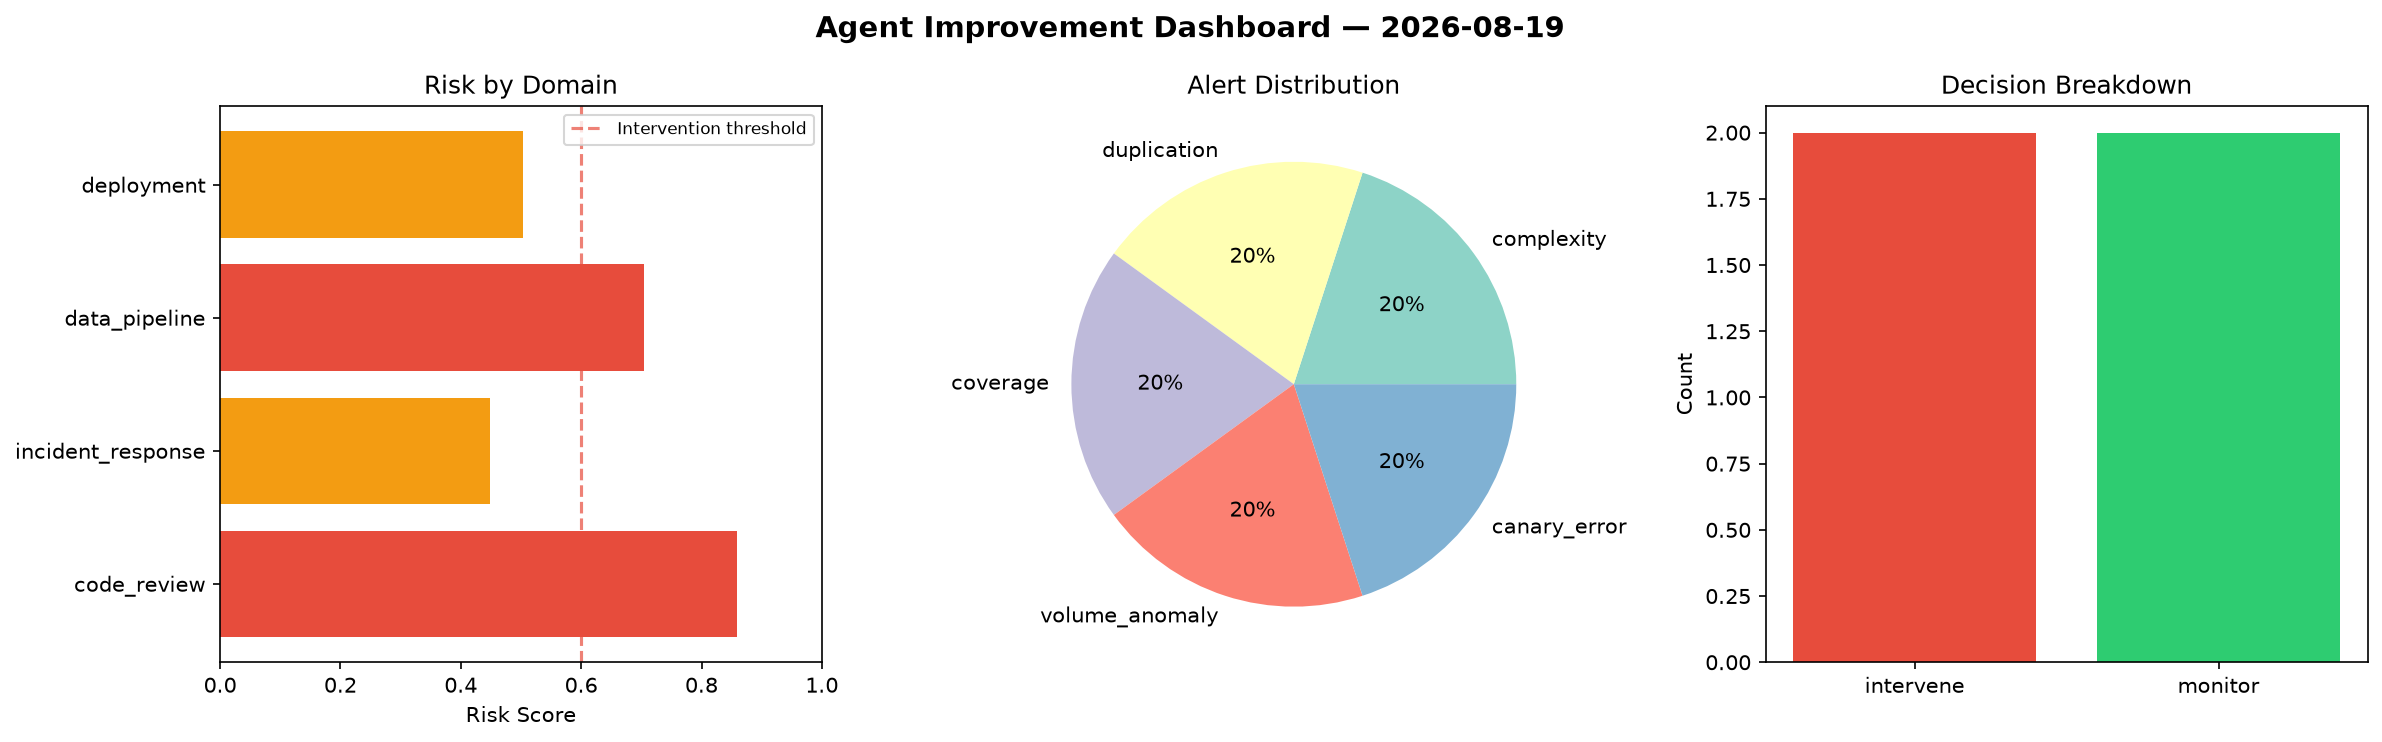
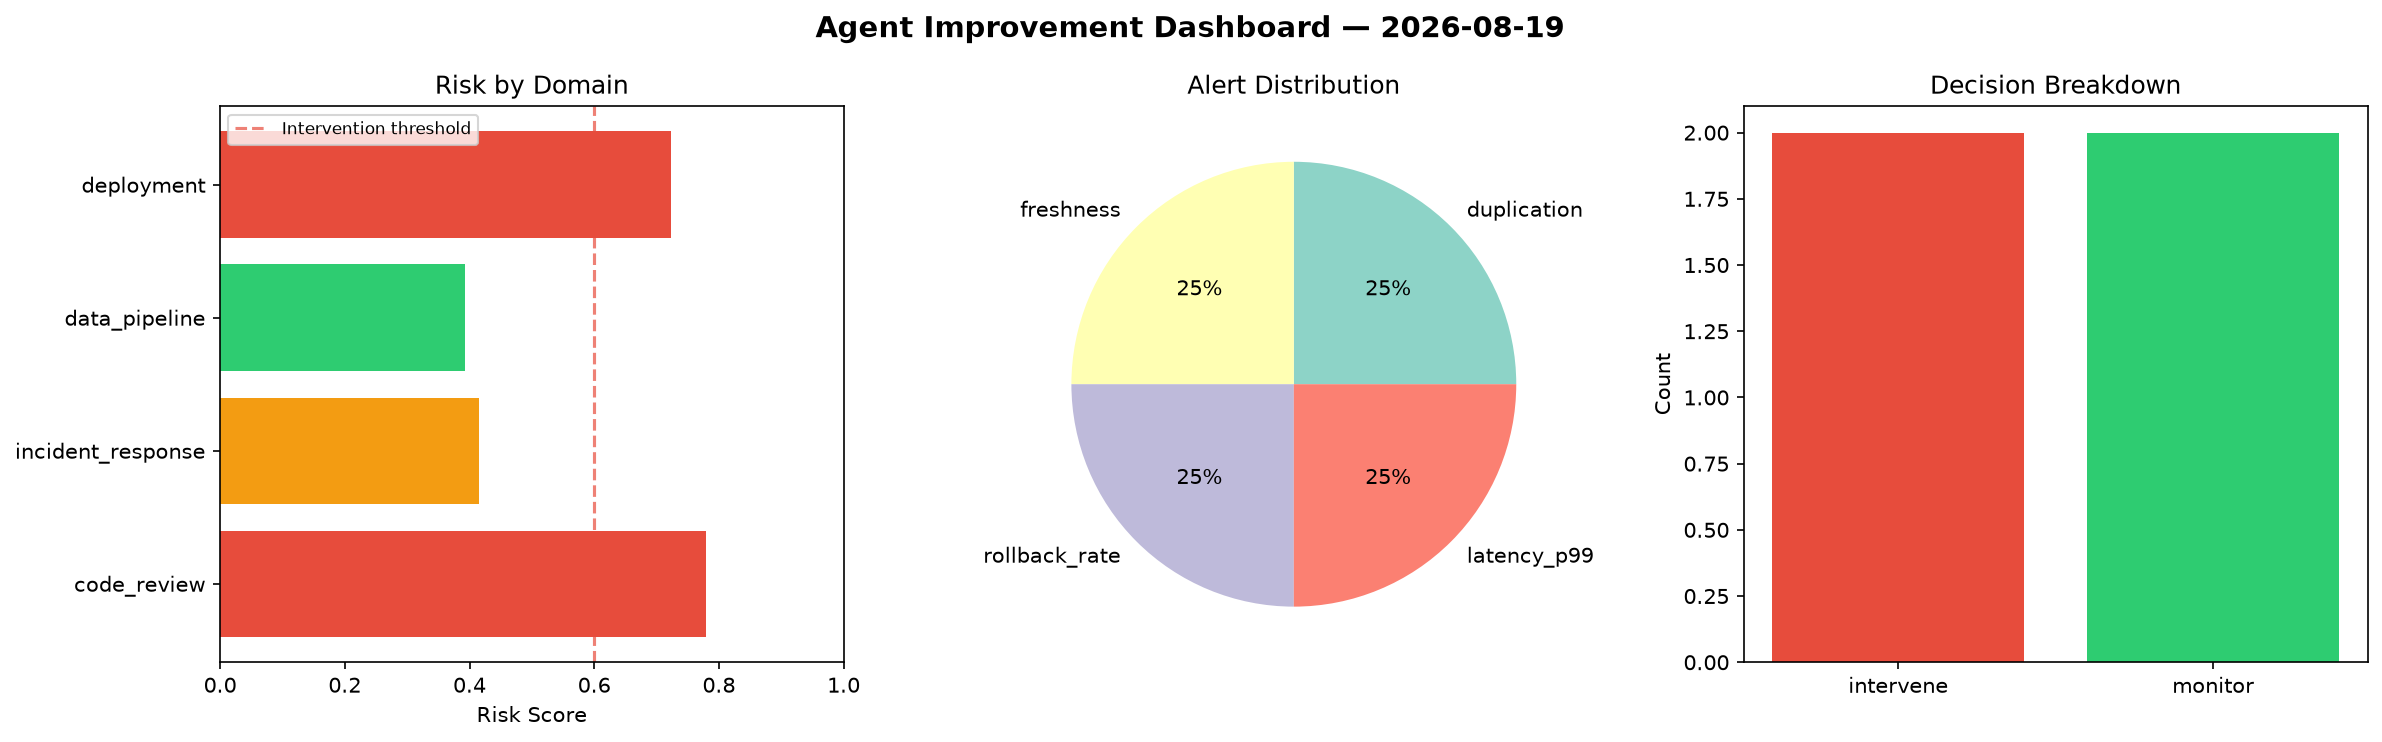
agent-improvement: daily cycle 2026-08-19T08:54

diff --git a/logs/2026-08-19.md b/logs/2026-08-19.md
@@ -1,6 +1,6 @@
 # Agent Improvement Report — 2026-08-19
 
-**Cycle ID:** `ce6627b8` | **Avg Risk:** 0.6288 | **Interventions:** 2/4
+**Cycle ID:** `3d781dc7` | **Avg Risk:** 0.5778 | **Interventions:** 2/4
 
 ![Dashboard](2026-08-19_dashboard.png)
 
@@ -10,18 +10,18 @@
 
 | Domain | Risk Score | Decision | Alerts |
 |--------|-----------|----------|--------|
-| code_review | 0.8592 | intervene | complexity, duplication, coverage |
-| incident_response | 0.4483 | monitor | none |
-| data_pipeline | 0.704 | intervene | volume_anomaly |
-| deployment | 0.5036 | monitor | canary_error |
+| code_review | 0.7796 | intervene | duplication |
+| incident_response | 0.4159 | monitor | none |
+| data_pipeline | 0.3932 | monitor | freshness |
+| deployment | 0.7226 | intervene | rollback_rate, latency_p99 |
 
 ## Delta vs Yesterday
 
 | Domain | Today | Yesterday | Change |
 |--------|-------|-----------|--------|
-| code_review | 0.8592 | 0.5808 | 📈 47.9% |
-| incident_response | 0.4483 | 0.2387 | 📈 87.8% |
-| data_pipeline | 0.704 | 0.4437 | 📈 58.7% |
-| deployment | 0.5036 | 0.5747 | 📉 -12.4% |
+| code_review | 0.7796 | 0.5808 | 📈 34.2% |
+| incident_response | 0.4159 | 0.2387 | 📈 74.2% |
+| data_pipeline | 0.3932 | 0.4437 | 📉 -11.4% |
+| deployment | 0.7226 | 0.5747 | 📈 25.7% |
 
 **Refinement:** `{'adjustment': 'maintain', 'trend': 'improving', 'window': 4}`
